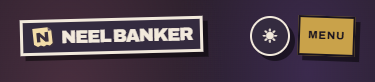
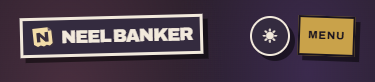
Verify the folded scrap on native Edge tabs

Changed region(s): [[0.0293, 0.5854, 0.5573, 0.7805], [0.0293, 0.1463, 0.5573, 0.2927]]

diff --git a/components/nav.tsx b/components/nav.tsx
@@ -58,7 +58,7 @@ export function Nav() {
             href="/"
             onClick={() => setOpen(false)}
             className={cn(
-              'tone-panel flex h-9 -rotate-[1.4deg] shrink-0 cursor-pointer items-center gap-1.5 whitespace-nowrap border-[3px] border-current px-2 text-base font-black uppercase leading-none tracking-tighter shadow-hard transition-[rotate] duration-200 hover:rotate-0 min-[360px]:text-lg sm:h-[38px] sm:px-3.5 sm:text-xl',
+              'tone-panel flex h-10 -rotate-[1.4deg] shrink-0 cursor-pointer items-center gap-1.5 whitespace-nowrap border-[3px] border-current px-2 text-base font-black uppercase leading-none tracking-tighter shadow-hard transition-[rotate] duration-200 hover:rotate-0 min-[360px]:text-lg sm:px-3.5 sm:text-xl lg:h-[38px]',
               focusRing,
             )}
           >

diff --git a/design/brand-refresh/README.md b/design/brand-refresh/README.md
@@ -4,6 +4,7 @@ The editable [SVG](../../public/favicon.svg) uses the heavier hand-cut N, a fold
 
 ## Favicon and app icons
 
+- [Before and after on actual Edge tabs](native-edge-tabs-before-after.png) in light and dark. Playwright drove system Edge and the captures show the left part of each native tab.
 - [Before and after at 16 px](favicon-tabs-before-after.png) on simulated light and dark browser tabs. Playwright captures the tab mockup in the page viewport.
 - [Sky, butter, and lilac at 16 px](favicon-colour-comparison.png) on the same simulated tabs.
 - [Light renders](icon-renders-light.png) and [dark renders](icon-renders-dark.png) show the 16, 32, 180, and 512 px icons at their native sizes. The 512 px mark and shadow fit within a 193.0 px radius inside the 204.8 px maskable safe zone.
